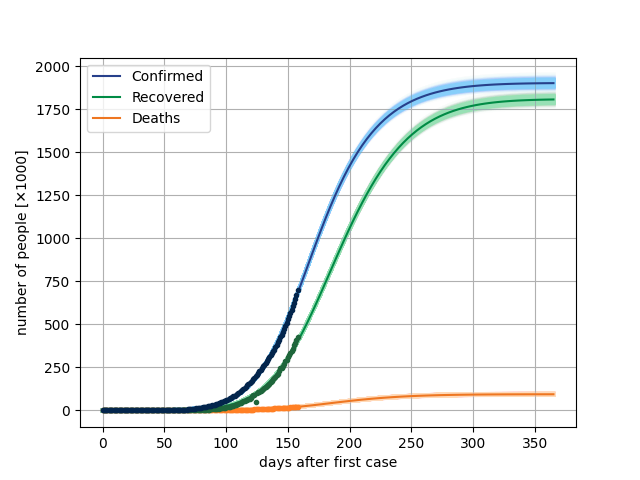
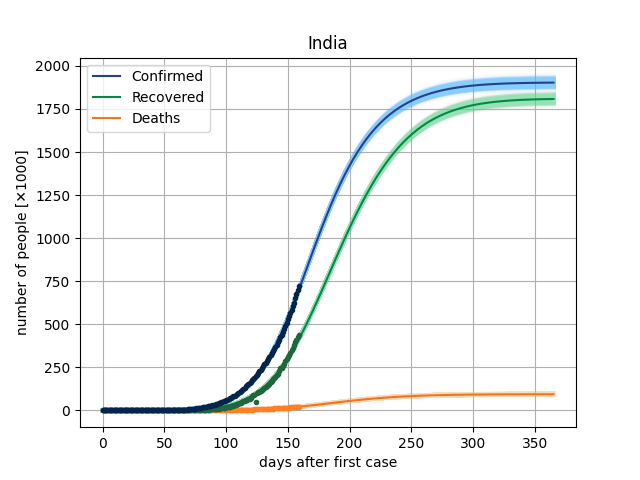
Updating README.md

diff --git a/covid/__main__.py b/covid/__main__.py
@@ -116,7 +116,7 @@ def main(file_name):
 	                    save_figure = True,
 	                    show        = False,
 	                    file_name = param['ep_crv_prj_file'],
-                        plot_title = param['country_1'][0]+' - '+param['ep_model']
+                        plot_title = param['country_1'][0]#+' , '+param['ep_model']
 	                    )
 
 

diff --git a/README.md b/README.md
@@ -24,13 +24,25 @@ This equations must be integrated with inicial conditions given by: s(0)=s_0 , I
 
 The main result in this version is to plot de curves from the model for a specific parameter vector and compare this with dataset. In covid/stat.py, functions has been implemented to generate an MCMC sample, through which it will be possible to make inferences of the parametric intervals.
 
-<p align="center">
-  <img src="./results/cases_projection.png"/>
-</p>
+<!-- <p align="center">
+  <img src="./results/brazil/cases_projection.png"/>
+</p> -->
 
-<p align="center">
-  <img src="./results/gtc-graphs.png"/>
-</p>
+<div class="row">
+  <div class="column">
+    <img src="./results/brazil/cases_projection.png" alt="Snow" style="width:100%">
+  </div>
+  <div class="column">
+    <img src="./results/india/cases_projection.png" alt="Forest" style="width:100%">
+  </div>
+  <div class="column">
+    <img src="./results/italy/cases_projection.png" alt="Mountains" style="width:100%">
+  </div>
+</div>
+
+<!-- <p align="center">
+  <img src="./results/brazil/gtc-graphs.png"/>
+</p> -->
 
 ### 2. Dataset
 
